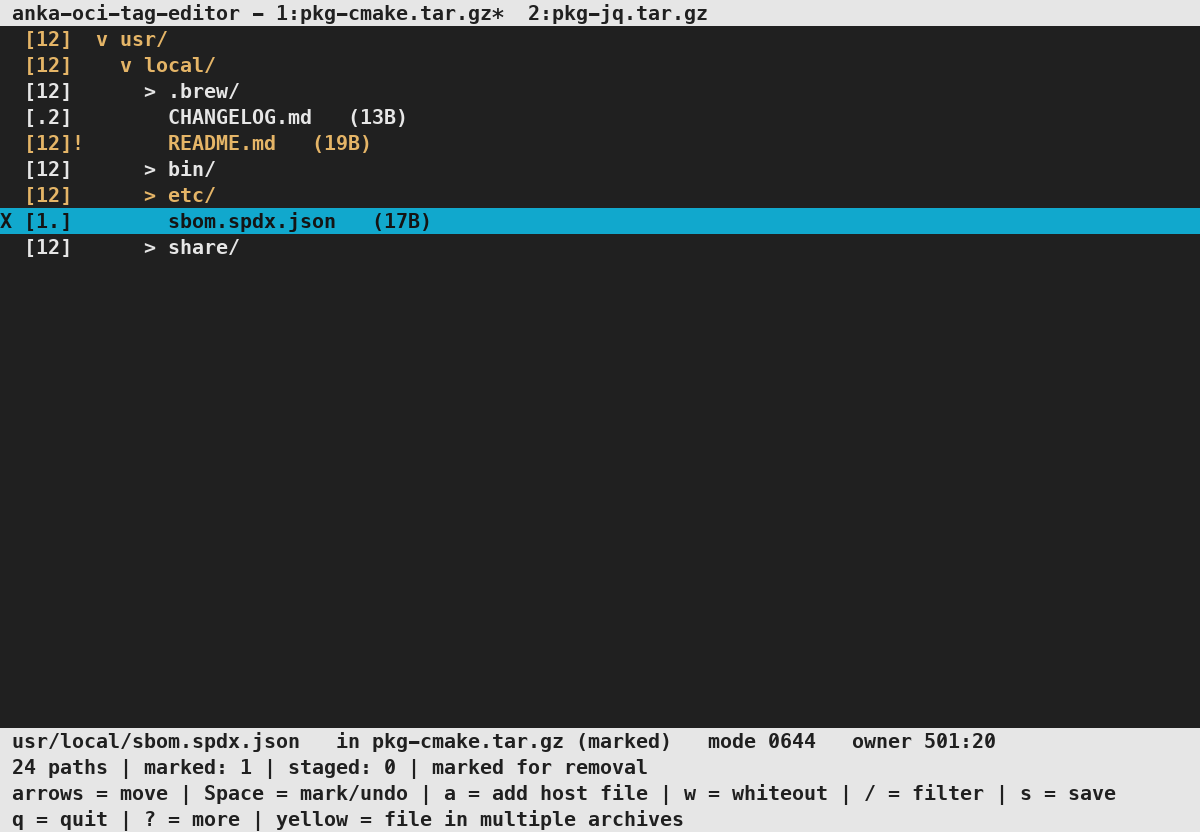
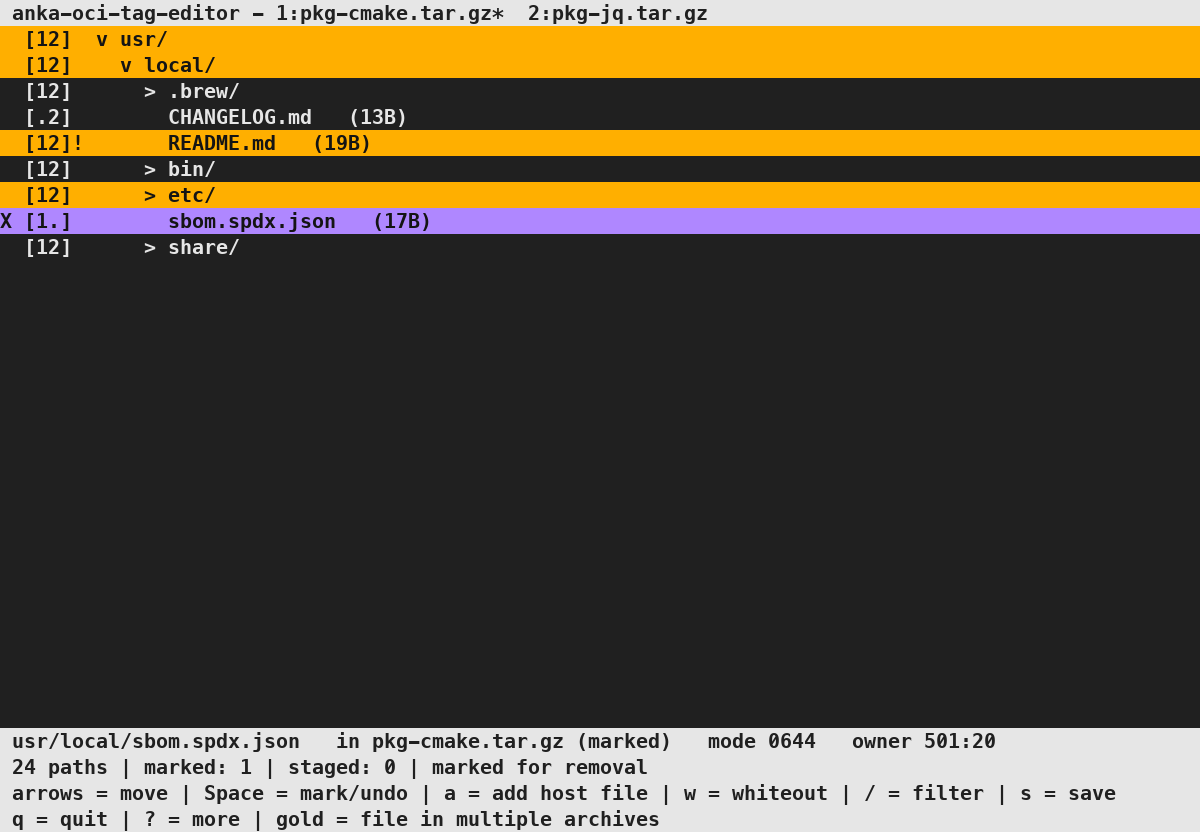
Use Veertu brand colors and stabilize dev reload.
Gold bar for shared paths matches site palette; dev watcher avoids Make 3.81 subsecond mtime restart loops.

diff --git a/src/tui.c b/src/tui.c
@@ -61,14 +61,23 @@ static int read_key(void) {
     }
 }
 
-/* Color pairs: paths in more than one archive (and their parents), whiteout
- * entries, and the selected row. The selected row is not reverse video, so it
- * does not match the header and footer bars. */
+/* Color pairs from the Veertu site palette (https://veertu.com/):
+ * shared paths: amber #FCB900, selected row: light purple #9B51E0, whiteouts:
+ * rose #E21E79. 256-color terminals get the nearest cube color; 8-color
+ * terminals get yellow / magenta / red. Black text on the purple bar so the
+ * letters stay readable. */
 #define PAIR_SHARED   1
 #define PAIR_WHITEOUT 2
 #define PAIR_SELECTED 3
+#define VEERTU_AMBER_256  214   /* #FFAF00 ~ #FCB900 */
+#define VEERTU_PURPLE_256 141   /* #AF87FF ~ #9B51E0 */
+#define VEERTU_ROSE_256   162   /* #D70087 ~ #E21E79 */
 static int have_colors;
 static int have_select_color;
+
+static int brand_color(int color_256, int color_8) {
+    return COLORS >= 256 ? color_256 : color_8;
+}
 
 #define HELP_MAX_LINES 4
 #define HELP_LINE_CAP  256
@@ -201,7 +210,7 @@ static void format_help(const tui_state *st, char *buf, size_t buflen) {
                          " | w = whiteout | / = filter | s = save | q = quit"
                          " | ? = more");
     if (multi(st))
-        str_append(buf, buflen, off, " | yellow = file in multiple archives");
+        str_append(buf, buflen, off, " | gold = file in multiple archives");
 }
 
 /* Wrap text to width, breaking on spaces when possible. Returns line count. */
@@ -305,7 +314,7 @@ static void draw_bar(int y, const char *text) {
 
 /* ---- rendering ---- */
 
-/* Mark files that belong to 2+ archives, and paint their ancestors yellow so
+/* Mark files that belong to 2+ archives, and paint their ancestors so
  * collapsed folders point the way. Directories themselves never warn just for
  * being present in several archives. */
 static int mark_shared_warn(le_node *n, int narchives) {
@@ -446,25 +455,28 @@ static void draw_row(tui_state *st, int screen_y, size_t idx) {
         append_entry_text(line, sizeof(line), off, n, meta);
 
     int attr = 0;
+    int fill_row = selected;
     if (selected && have_select_color)
-        attr = COLOR_PAIR(PAIR_SELECTED);
+        attr = COLOR_PAIR(PAIR_SELECTED) | A_BOLD;
     else if (selected)
-        attr = A_REVERSE;
+        attr = A_REVERSE | A_BOLD;
     else if (rs.removed_everywhere)
         attr = A_DIM;
     else {
         int color_pair = whiteout ? PAIR_WHITEOUT
                          : n->shared_warn ? PAIR_SHARED : 0;
-        if (color_pair && have_colors)
+        if (color_pair && have_colors) {
             attr = COLOR_PAIR(color_pair);
-        else if (color_pair)
+            if (color_pair == PAIR_SHARED)
+                fill_row = 1;
+        } else if (color_pair)
             attr = A_BOLD;          /* no color: keep these rows obvious */
     }
 
     if (attr)
         attron(attr);
     mvaddnstr(screen_y, 0, line, COLS);
-    if (selected) {                 /* fill row for a solid highlight bar */
+    if (fill_row) {                 /* fill row for a solid highlight bar */
         int len = (int)strlen(line);
         for (int x = len; x < COLS; x++)
             addch(' ');
@@ -552,7 +564,7 @@ static void draw_help(const tui_state *st) {
         "  In prompts: Enter accepts, Esc cancels, Tab completes host paths.",
         "",
         "  Legend: 'X' marked, '~' removed via parent, '[+]' staged,",
-        "  '[wh]' whiteout (red). The details line shows the archives that",
+        "  '[wh]' whiteout (rose). The details line shows the archives that",
         "  hold the selection, its Anka change kind (added / modified /",
         "  whiteout) and edits in parentheses, its mode, and its owner.",
         NULL,
@@ -561,7 +573,7 @@ static void draw_help(const tui_state *st) {
         "",
         "  With several archives loaded, each row carries a membership column:",
         "  [12] in both, [1.] only the first, [.+] staged into the second.",
-        "  Files in more than one archive are yellow; parents leading to them too.",
+        "  Files in more than one archive have a gold bar; parents too.",
         "  '!' means the entries disagree on type/size.",
         "  Space on a shared path asks which archive (or all of them);",
         "  adding a file or a whiteout asks which archive receives it.",
@@ -1150,14 +1162,17 @@ static int init_screen(void) {
 
     have_colors = 0;
     if (has_colors() && start_color() != ERR) {
-        /* Prefer the terminal default background so colored rows sit on the
-         * normal list color rather than a hard-coded black panel. */
+        /* Prefer the terminal default background so most rows sit on the
+         * normal list color. Shared, selected, and whiteout rows use the
+         * Veertu amber, purple, and rose. */
         use_default_colors();
-        have_colors = init_pair(PAIR_SHARED, COLOR_YELLOW, -1) != ERR &&
-                      init_pair(PAIR_WHITEOUT, COLOR_RED, -1) != ERR;
-        /* Black on cyan stays readable on a light terminal and on a dark one,
-         * and it is not the grey of a reverse-video bar. */
-        have_select_color = init_pair(PAIR_SELECTED, COLOR_BLACK, COLOR_CYAN) != ERR;
+        have_colors = init_pair(PAIR_SHARED, COLOR_BLACK,
+                                brand_color(VEERTU_AMBER_256, COLOR_YELLOW)) != ERR &&
+                      init_pair(PAIR_WHITEOUT,
+                                brand_color(VEERTU_ROSE_256, COLOR_RED), -1) != ERR;
+        have_select_color = init_pair(PAIR_SELECTED, COLOR_BLACK,
+                                      brand_color(VEERTU_PURPLE_256,
+                                                  COLOR_MAGENTA)) != ERR;
     }
     return 0;
 }

diff --git a/scripts/ansi_to_png.py b/scripts/ansi_to_png.py
@@ -28,7 +28,7 @@ ANSI = (
     (20, 20, 20),
     (205, 49, 49),
     (13, 188, 121),
-    (229, 181, 103),
+    (255, 210, 0),
     (36, 114, 200),
     (188, 63, 188),
     (17, 168, 205),
@@ -42,6 +42,17 @@ ANSI = (
     (120, 220, 240),
     (255, 255, 255),
 )
+CUBE = (0, 95, 135, 175, 215, 255)
+
+
+def xterm_256(index):
+    if index < 16:
+        return ANSI[index]
+    if index < 232:
+        index -= 16
+        return (CUBE[index // 36], CUBE[(index % 36) // 6], CUBE[index % 6])
+    grey = 8 + (index - 232) * 10
+    return (grey, grey, grey)
 
 
 class Style:
@@ -58,8 +69,8 @@ class Style:
         self.dim = False
 
     def colors(self):
-        fg = DEFAULT_FG if self.fg is None else ANSI[self.fg]
-        bg = DEFAULT_BG if self.bg is None else ANSI[self.bg]
+        fg = DEFAULT_FG if self.fg is None else xterm_256(self.fg)
+        bg = DEFAULT_BG if self.bg is None else xterm_256(self.bg)
         if self.reverse:
             fg, bg = bg, fg
         if self.dim:
@@ -98,10 +109,10 @@ def apply_sgr(style, params):
         elif 100 <= code <= 107:
             style.bg = 8 + (code - 100)
         elif code == 38 and i + 2 < len(params) and params[i + 1] == 5:
-            style.fg = params[i + 2] % 16
+            style.fg = params[i + 2]
             i += 2
         elif code == 48 and i + 2 < len(params) and params[i + 1] == 5:
-            style.bg = params[i + 2] % 16
+            style.bg = params[i + 2]
             i += 2
         i += 1
 

diff --git a/README.md b/README.md
@@ -197,8 +197,8 @@ X [12]  v etc/          both archives contain etc/
   [.+]      added.txt   staged into the second archive, not saved yet
 ```
 
-Files that exist in more than one archive are yellow. Parent folders that lead to
-such a file are yellow too, so you can expand down toward the overlap; folders that
+Files that exist in more than one archive have a gold bar. Parent folders that lead to
+such a file have it too, so you can expand down toward the overlap; folders that
 merely appear in several archives without a shared file underneath stay normal. A
 `!` after the column means the entries disagree about the entry's type or size.
 Paths are matched by name only; file contents are never hashed or compared.

diff --git a/testdata/README.md b/testdata/README.md
@@ -19,13 +19,13 @@ Regenerate:
 
 ## Scenarios
 
-**No yellow** (directory scaffolding overlaps; no conflicting files):
+**No gold bar** (directory scaffolding overlaps; no conflicting files):
 
 ```bash
 ./anka-oci-tag-editor testdata/pkg-cmake.tar.gz testdata/pkg-wireguard.tar.gz
 ```
 
-**Yellow + `!`** on shared files and the parents that lead to them
+**Gold + `!`** on shared files and the parents that lead to them
 (`usr/`, `usr/local/`, `usr/local/etc/`, …):
 
 ```bash
